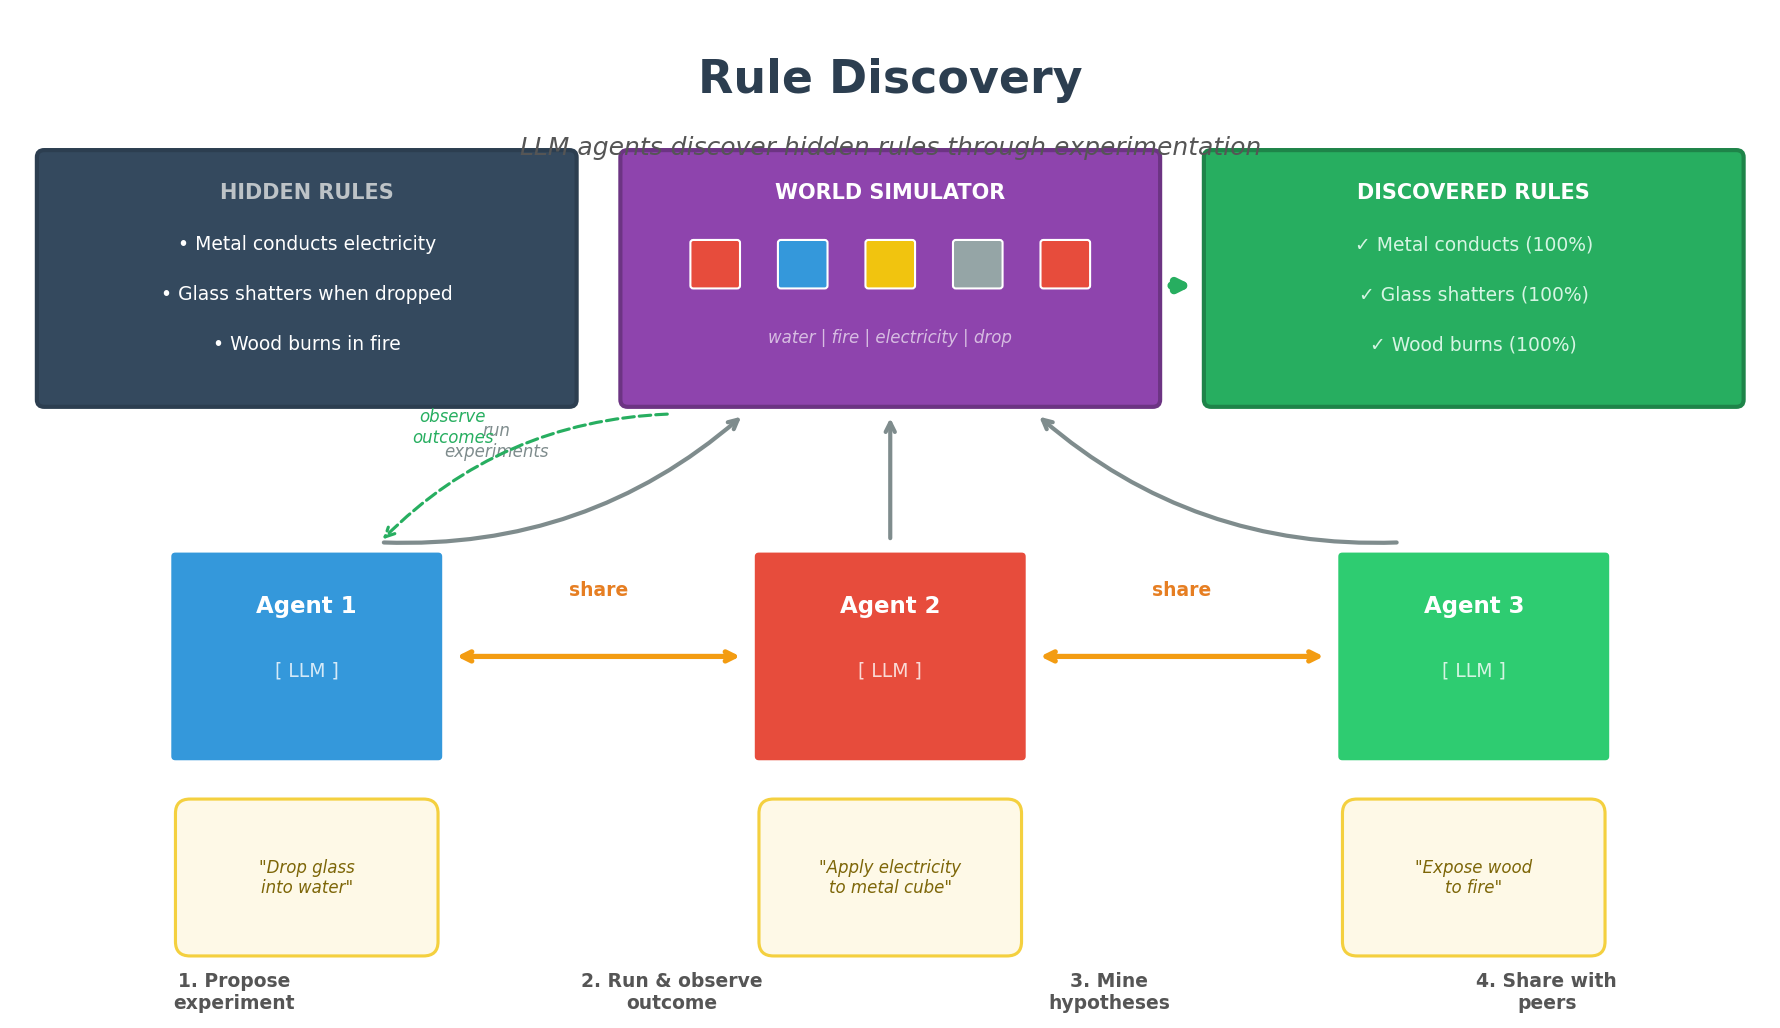
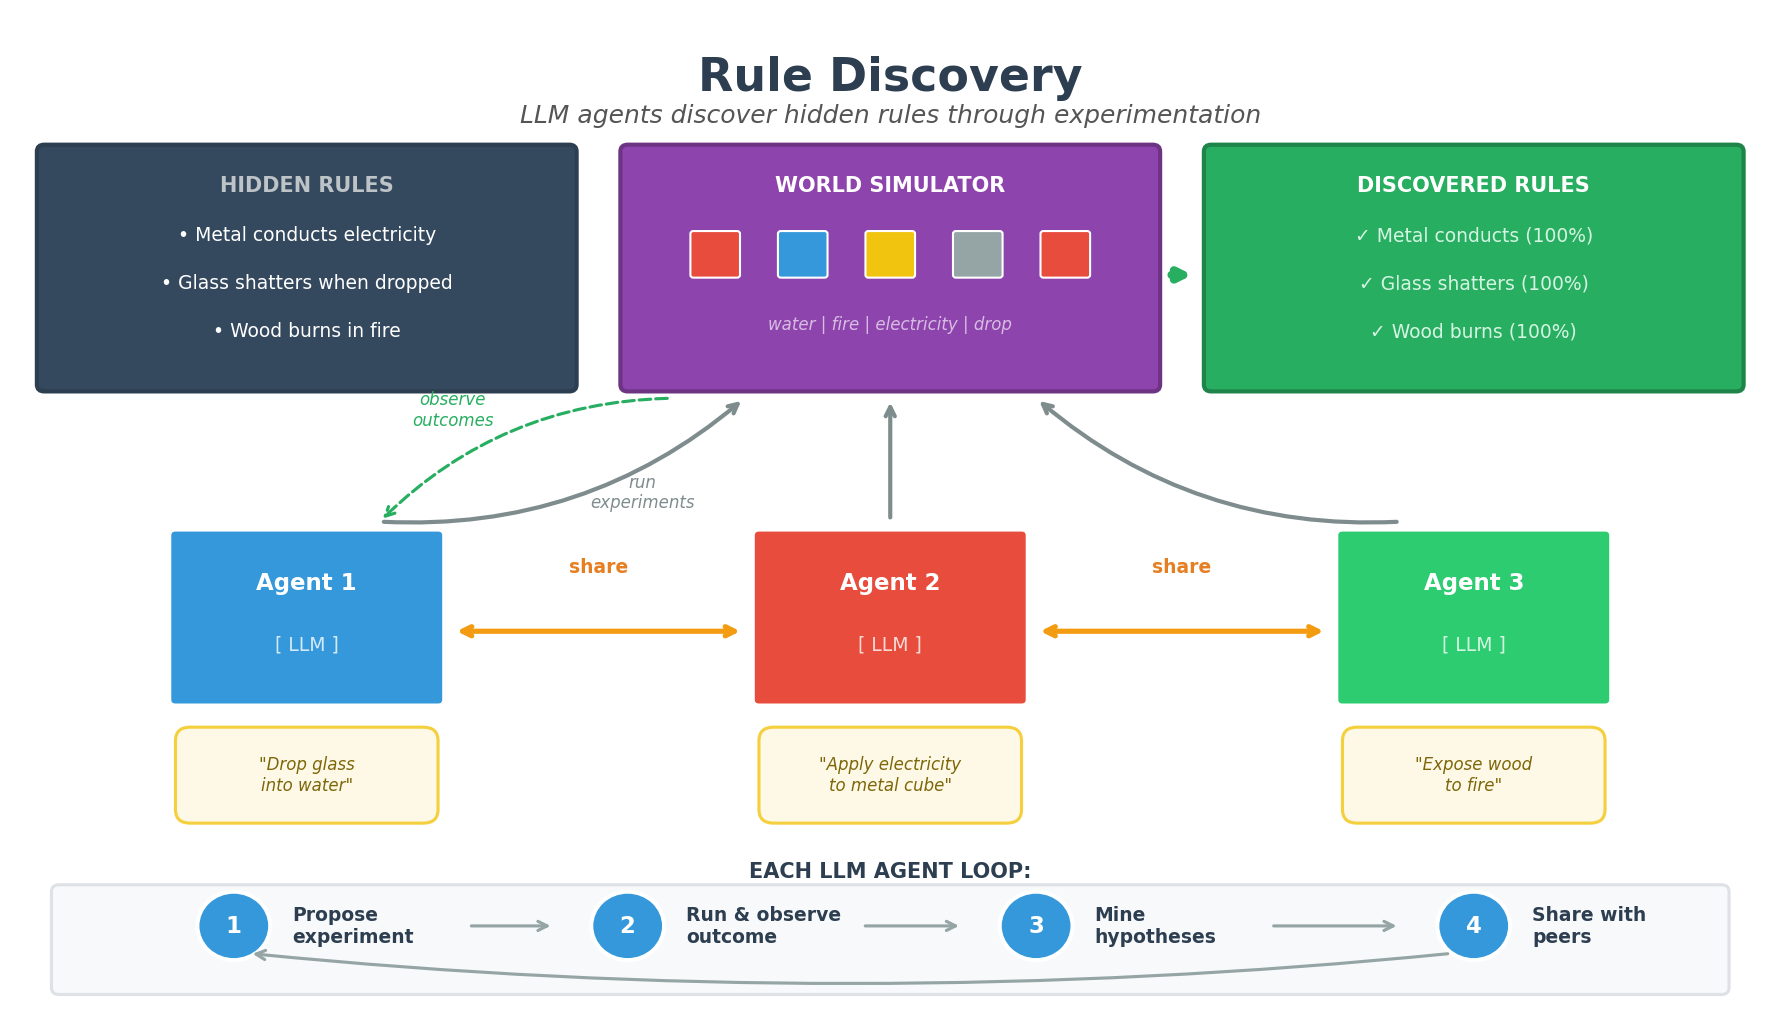
update figure

diff --git a/Applications/RuleDiscovery/create_overview_figure.py b/Applications/RuleDiscovery/create_overview_figure.py
@@ -17,13 +17,13 @@ def create_rule_discovery_figure():
     """Create illustrative figure for Rule Discovery."""
     fig, ax = plt.subplots(figsize=(12, 7))
     ax.set_xlim(0, 12)
-    ax.set_ylim(0, 7)
+    ax.set_ylim(-0.3, 7)
     ax.axis('off')
 
     # Title
     ax.text(6, 6.7, 'Rule Discovery', fontsize=22, fontweight='bold',
             ha='center', va='top', color='#2c3e50')
-    ax.text(6, 6.15, 'LLM agents discover hidden rules through experimentation',
+    ax.text(6, 6.35, 'LLM agents discover hidden rules through experimentation',
             fontsize=12, ha='center', va='top', style='italic', color='#555')
 
     # Hidden rules box (top left)
@@ -67,7 +67,7 @@ def create_rule_discovery_figure():
 
     for i, (x, color) in enumerate(zip(agent_x, agent_colors)):
         # Agent box (representing LLM)
-        agent_box = FancyBboxPatch((x-0.9, 1.8), 1.8, 1.4, boxstyle="round,pad=0.05",
+        agent_box = FancyBboxPatch((x-0.9, 2.0), 1.8, 1.2, boxstyle="round,pad=0.05",
                                     facecolor=color, edgecolor='white', linewidth=3)
         ax.add_patch(agent_box)
         ax.text(x, 2.85, f'Agent {i+1}', fontsize=11, ha='center', va='center',
@@ -81,10 +81,10 @@ def create_rule_discovery_figure():
             '"Apply electricity\nto metal cube"',
             '"Expose wood\nto fire"'
         ]
-        bubble = FancyBboxPatch((x-0.8, 0.5), 1.6, 0.9, boxstyle="round,pad=0.1",
+        bubble = FancyBboxPatch((x-0.8, 1.2), 1.6, 0.5, boxstyle="round,pad=0.1",
                                  facecolor='#fef9e7', edgecolor='#f4d03f', linewidth=1.5)
         ax.add_patch(bubble)
-        ax.text(x, 0.95, exp_texts[i], fontsize=8, ha='center', va='center',
+        ax.text(x, 1.45, exp_texts[i], fontsize=8, ha='center', va='center',
                style='italic', color='#7d6608')
 
     # Arrows from agents to world (experiments)
@@ -97,7 +97,7 @@ def create_rule_discovery_figure():
                arrowprops=dict(arrowstyle='->', color='#7f8c8d', lw=2,
                               connectionstyle='arc3,rad=-0.2'))
 
-    ax.text(3.3, 3.9, 'run\nexperiments', fontsize=8, ha='center', color='#7f8c8d',
+    ax.text(4.3, 3.4, 'run\nexperiments', fontsize=8, ha='center', color='#7f8c8d',
             style='italic')
 
     # Arrows from world back to agents (observations) - dashed
@@ -138,17 +138,45 @@ def create_rule_discovery_figure():
     ax.annotate('', xy=(8.1, 5.1), xytext=(7.9, 5.1),
                arrowprops=dict(arrowstyle='->', color='#27ae60', lw=4))
 
-    # Process steps at bottom
+    # Process steps at bottom - showing what each LLM agent does
+    # Background box for the workflow
+    workflow_box = FancyBboxPatch((0.3, -0.1), 11.4, 0.7, boxstyle="round,pad=0.05",
+                                   facecolor='#f8f9fa', edgecolor='#dee2e6', linewidth=1.5)
+    ax.add_patch(workflow_box)
+
+    # Header label
+    ax.text(6, 0.75, 'EACH LLM AGENT LOOP:', fontsize=10, ha='center', va='center',
+            color='#2c3e50', fontweight='bold')
+
+    # Steps with arrows between them
     steps = [
         ('1', 'Propose\nexperiment'),
         ('2', 'Run & observe\noutcome'),
         ('3', 'Mine\nhypotheses'),
         ('4', 'Share with\npeers'),
     ]
-    step_x = [1.5, 4.5, 7.5, 10.5]
-    for (num, text), x in zip(steps, step_x):
-        ax.text(x, 0.15, f'{num}. {text}', fontsize=9, ha='center', va='center',
-               color='#555', fontweight='bold')
+    step_x = [1.5, 4.2, 7.0, 10.0]
+
+    for i, ((num, text), x) in enumerate(zip(steps, step_x)):
+        # Step circle
+        circle = Circle((x, 0.35), 0.25, facecolor='#3498db', edgecolor='white', linewidth=2)
+        ax.add_patch(circle)
+        ax.text(x, 0.35, num, fontsize=11, ha='center', va='center',
+                color='white', fontweight='bold')
+        # Step label
+        ax.text(x + 0.4, 0.35, text, fontsize=9, ha='left', va='center',
+               color='#2c3e50', fontweight='bold')
+
+        # Arrow to next step
+        if i < len(steps) - 1:
+            next_x = step_x[i + 1]
+            ax.annotate('', xy=(next_x - 0.5, 0.35), xytext=(x + 1.6, 0.35),
+                       arrowprops=dict(arrowstyle='->', color='#95a5a6', lw=1.5))
+
+    # Loop arrow from step 4 back to step 1
+    ax.annotate('', xy=(1.6, 0.15), xytext=(9.85, 0.15),
+               arrowprops=dict(arrowstyle='->', color='#95a5a6', lw=1.5,
+                              connectionstyle='arc3,rad=-0.05'))
 
     plt.tight_layout()
 
